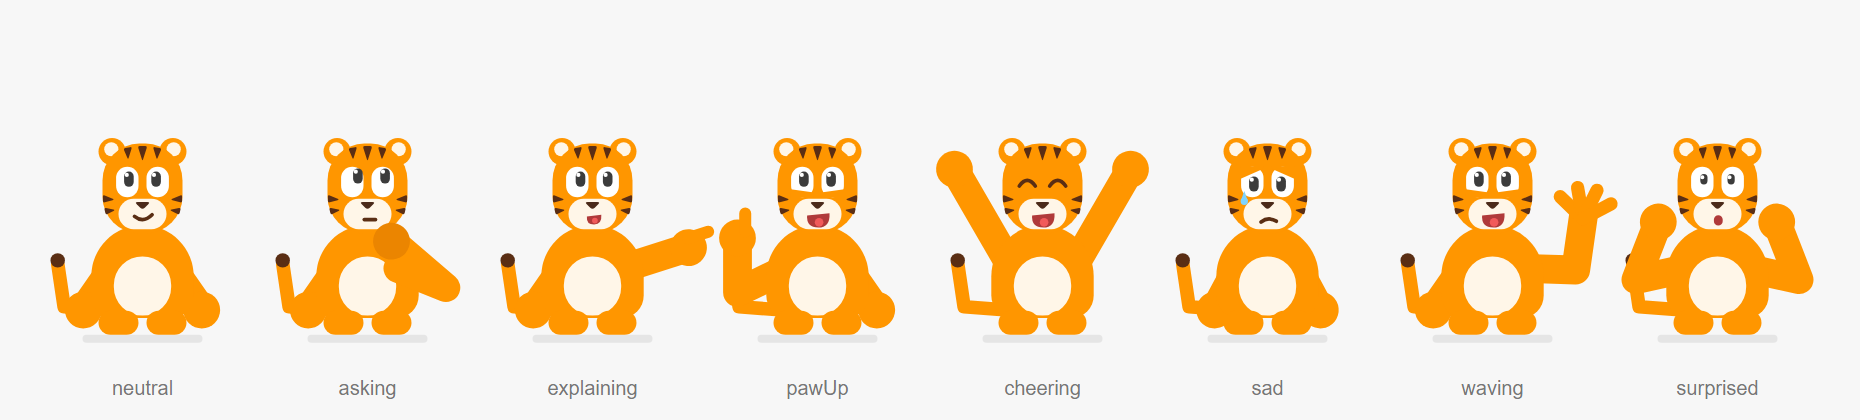
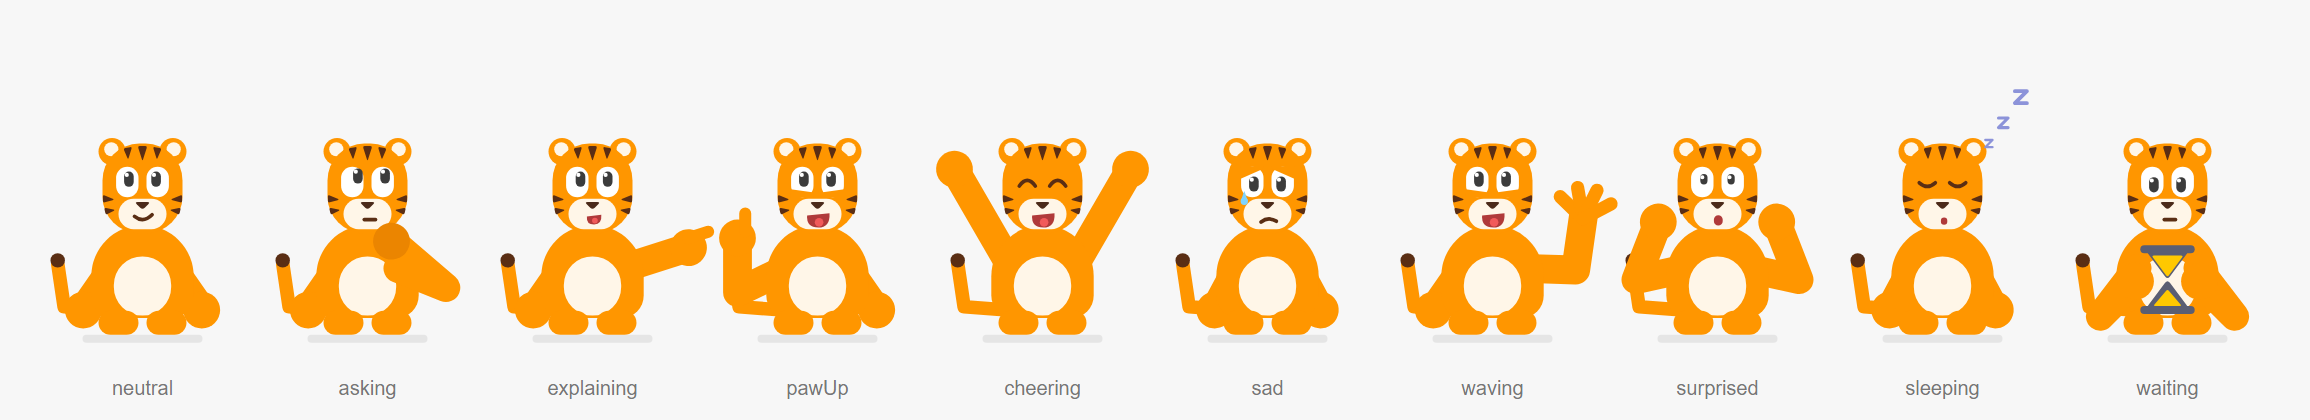
Zwei neue Posen: Schlafen und Warten (Sanduhr)

diff --git a/roundimals/SKILL.md b/roundimals/SKILL.md
@@ -1,6 +1,6 @@
 ---
 name: roundimals
-description: Draws upright cartoon animals (dog, cat, lion, tiger, bear, hamster, rabbit, panda, monkey, capybara) in a flat, rounded mascot style for apps - quiz hosts, game guides and chat avatars. Three rounded shapes, pill eyes without eyebrows, thick capsule arms with round paws, flat color with at most one shade, on one shared animal body, with a fixed set of poses (neutral, asking, explaining, paw up, cheering, sad, waving, surprised) and avatar expressions, natural or fantasy colors from one hex value, and optional clothes. Use when asked to draw, generate, review or fix a cute flat animal mascot, animal avatar or animal character (SVG, React Native SVG, Skia, canvas, Figma specs), when someone mentions roundimals, or when an animal in this style looks off.
+description: Draws upright cartoon animals (dog, cat, lion, tiger, bear, hamster, rabbit, panda, monkey, capybara) in a flat, rounded mascot style for apps - quiz hosts, game guides and chat avatars. Three rounded shapes, pill eyes without eyebrows, thick capsule arms with round paws, flat color with at most one shade, on one shared animal body, with a fixed set of poses (neutral, asking, explaining, paw up, cheering, sad, waving, surprised, sleeping, waiting) and avatar expressions, natural or fantasy colors from one hex value, and optional clothes. Use when asked to draw, generate, review or fix a cute flat animal mascot, animal avatar or animal character (SVG, React Native SVG, Skia, canvas, Figma specs), when someone mentions roundimals, or when an animal in this style looks off.
 ---
 
 # Roundimals
@@ -102,6 +102,7 @@ Each animal is told by its signature shapes. Keep them big and few.
   | surprised | Smaller pupils | Small dark "o" pill |
   | sad | Lid slanting down toward the outside, pupils down, a tear | Downturned stroke |
   | talking | Open | Small open mouth |
+  | sleeping | Closed: relaxed downward arcs (light on a dark eye patch) | Small round open mouth; two or three floating Z's |
 
 - **A big smile is an open mouth.** People in this style smile with a white tooth shape; on an animal it sits on the light muzzle and disappears.
 - **Closed eyes and mouth strokes** use the feature color (a dark tone of the fur), never black.
@@ -109,7 +110,7 @@ Each animal is told by its signature shapes. Keep them big and few.
 
 ## 6. Poses
 
-The kit's eight poses cover the usual app moments:
+The kit's ten poses cover the usual app moments:
 
 | Pose | App moment | How |
 |---|---|---|
@@ -121,11 +122,15 @@ The kit's eight poses cover the usual app moments:
 | sad | Wrong answer | Arms close to the body, sad eyes, tear |
 | waving | Hello, onboarding | Bent arm up, four toes fanned |
 | surprised | Unexpected result | Both paws beside the face at the silhouette edge, wide eyes, "o" |
+| sleeping | Empty state ("no messages yet"), night mode | Arms close to the body, sleeping eyes, small open mouth, three Z's growing up and away from the head |
+| waiting | Loading, wait screens | Holding an hourglass in front of the belly, looking down at it: arms, then hourglass, then the gripping paws on top |
 
 - **Silhouette test:** fill the animal in one color; the gesture must still read.
 - **Size test:** check at the smallest size the image ships at (for example 48 px for a chat avatar). The eyes and the gesture must still read.
 - **Avatar:** head and shoulders, no arms, no tail. In a round crop, keep the face centered and let the torso run off the bottom.
 - **Speech bubble:** put it on the side the explaining arm points to.
+- **Floating Z's:** each "Z" is one rounded stroke (no sharp corners), in a soft blue-violet (#8C93D9); keep them few and small.
+- **Held objects:** elbows tuck in low at the sides; the paws grip the object's edges. Elbows pushed out level with the object read as wings.
 
 ## 7. Layer order (back to front)
 
@@ -207,11 +212,12 @@ Tested fantasy starting points (the kit's `FANTASY` names): blue #1CB0F6, purple
 | A capybara that read as a pig | Two round nostril dots on a light muzzle | Flat nostril pills on a darker snout |
 | An angry capybara | Nostrils slanted like a "\ /" | Flat, horizontal nostrils |
 | A gray cat looked lifeless and off-style | Gray fur | Cool pastel (lilac-blue) fur, pink inner ear and nose |
+| Arms like wings while holding something | Elbows pushed far out to the sides, level with the object | Elbows low and close to the body, paws gripping the object's edges |
 | A ball on the shoulder | The arm's round end at the torso's top corner | Shoulder lower and further in, fully inside the torso |
 
 ## Reference files
 
 - `reference/measurements.md`: every number of the shared body and the reasoning behind it.
-- `reference/kit.mjs`: a dependency-free JavaScript kit (Node 18+). It draws all ten animals in eight poses and seven avatar expressions, poses of your own (`custom()`), natural or fantasy colors and optional clothes, following every rule above. Each function returns plain shape data, and `toSvg()` turns it into SVG. Port the geometry unchanged to React Native SVG, Skia or canvas.
+- `reference/kit.mjs`: a dependency-free JavaScript kit (Node 18+). It draws all ten animals in ten poses and eight avatar expressions, poses of your own (`custom()`), natural or fantasy colors and optional clothes, following every rule above. Each function returns plain shape data, and `toSvg()` turns it into SVG. Port the geometry unchanged to React Native SVG, Skia or canvas.
 - `reference/render.mjs`: writes one animal as an SVG file (`node reference/render.mjs <animal> <pose|avatar:expression> [--color] [--clothes] [--size] [--background] [--round]`).
 - `reference/render-sheet.mjs`: writes a contact sheet of everything. Run it after any change to the kit and look at the result before showing anyone.

diff --git a/README.md b/README.md
@@ -43,8 +43,8 @@ Mockups of a made-up app, drawn with `node scripts/make-mockups.mjs`: a quiz hos
 ## Features
 
 - **10 animals on one shared body:** dog, cat, lion, tiger, bear, hamster, rabbit, panda, monkey and capybara
-- **8 poses** for app moments: neutral, asking, explaining, paw up, cheering, sad, waving, surprised
-- **7 avatar expressions** for chats: neutral, happy, laugh, thinking, surprised, sad, talking
+- **10 poses** for app moments: neutral, asking, explaining, paw up, cheering, sad, waving, surprised, sleeping (empty states), waiting (loading screens)
+- **8 avatar expressions** for chats: neutral, happy, laugh, thinking, surprised, sad, talking, sleeping
 - **Any color** from a single value ("a blue lion"), natural colors by default, never gray
 - **Optional clothes:** shirt or hoodie
 - **Plain SVG output** from a dependency-free renderer, easy to port to React Native SVG, Skia, SwiftUI or canvas
@@ -53,9 +53,9 @@ Mockups of a made-up app, drawn with `node scripts/make-mockups.mjs`: a quiz hos
 
 ## Preview
 
-**Eight poses for app moments** (here: the tiger)
+**Ten poses for app moments** (here: the tiger)
 
-<img width="100%" alt="The tiger in eight poses: neutral, asking, explaining, paw up, cheering, sad, waving, surprised" src="docs/img/poses.png" />
+<img width="100%" alt="The tiger in ten poses: neutral, asking, explaining, paw up, cheering, sad, waving, surprised, sleeping, waiting" src="docs/img/poses.png" />
 
 **Chat avatars** with different expressions
 
@@ -90,7 +90,7 @@ Ask Claude, for example:
 - "Draw an SVG of a tiger asking a quiz question, roundimals style."
 - "Make a round chat avatar of a happy hamster on a light blue background."
 - "I need a blue lion cheering for my language app's level-complete screen, as React Native SVG."
-- "Give me the rabbit in all eight poses in a green hoodie."
+- "Give me the rabbit in all ten poses in a green hoodie."
 - "Review this mascot and tell me what breaks the roundimals style."
 
 Or render directly with the kit:

diff --git a/CHANGELOG.md b/CHANGELOG.md
@@ -5,6 +5,7 @@ The format is based on [Keep a Changelog](https://keepachangelog.com/en/1.1.0/).
 
 ## [Unreleased]
 ### Added
+- Two new poses: `sleeping` (empty states, with floating Z's) and `waiting` (holding an hourglass, for loading screens), plus a `sleeping` avatar expression. Ten poses and eight avatar expressions in total.
 - App mockups in the README (quiz host, lesson complete, chat avatars) from `scripts/make-mockups.mjs`.
 - `scripts/make-video.mjs`: frames for a 13-second square promo video (cast, poses, colors, end card).
 
